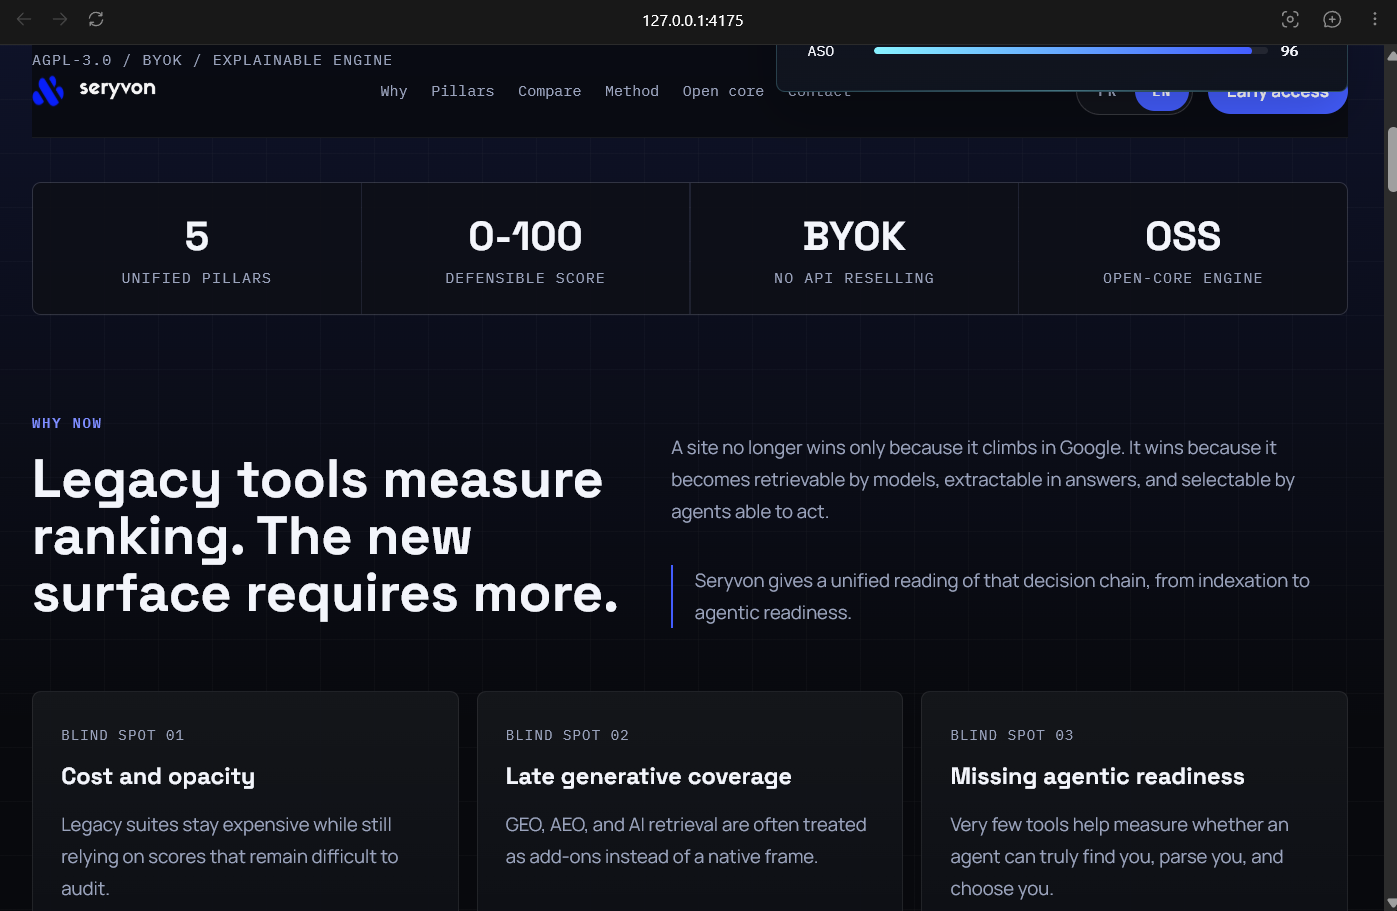
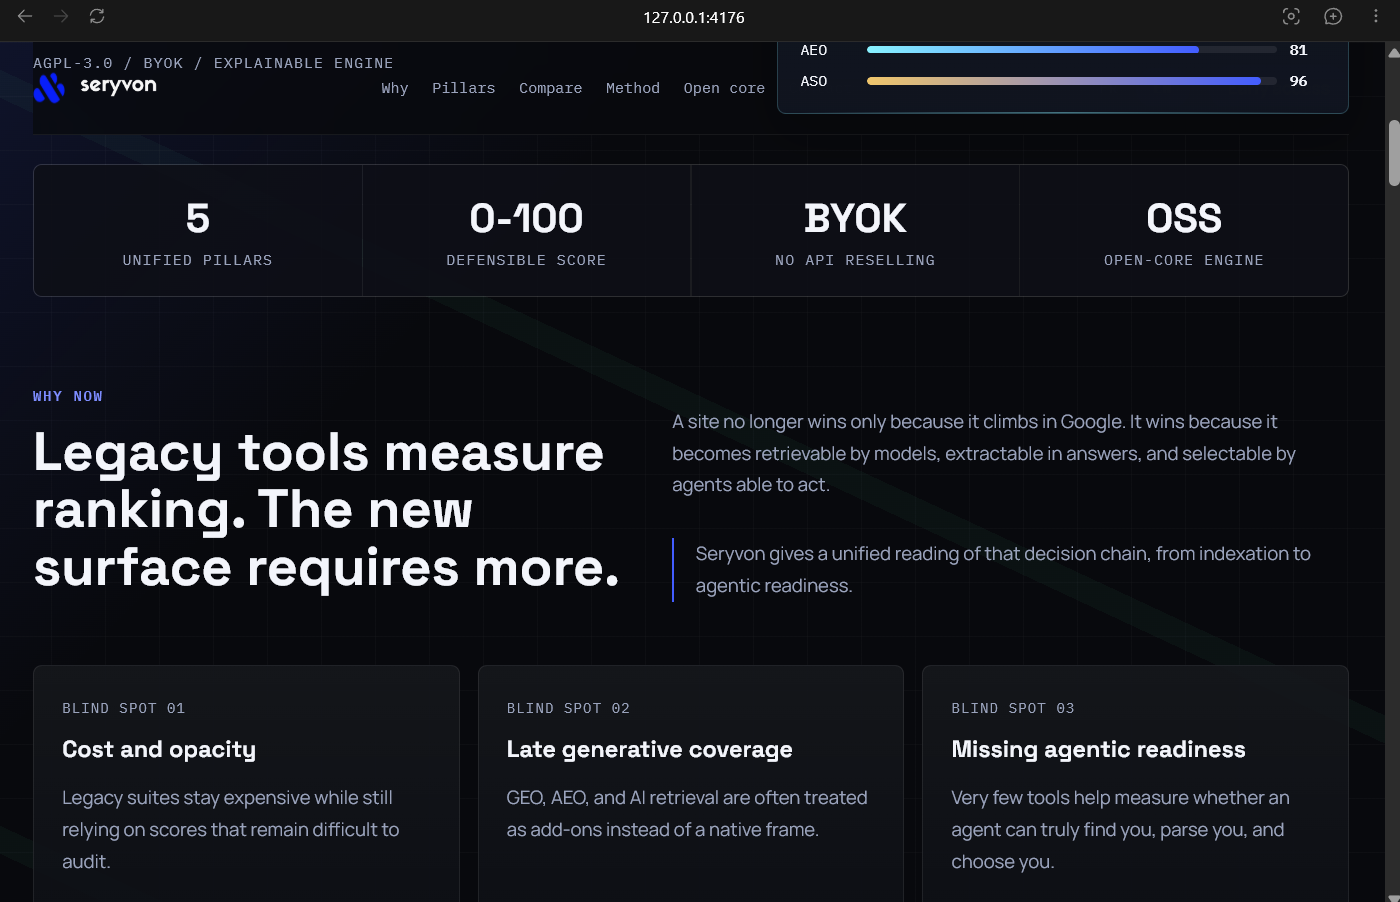
docs: finalize orchestrated Seryvon comparison

diff --git a/README.md b/README.md
@@ -170,13 +170,13 @@ After:
 
 ![Seryvon after orchestrator compare](docs/seryvon-after-orchestrator-compare.png)
 
-The new version feels more orchestrated because it reads like a guided sequence, not a stack of disconnected sections.
+The result feels more orchestrated because the page now has a clearer narrative sequence instead of a set of polished but mostly parallel sections.
 
-The hero now has a much clearer hierarchy: product first (`Seryvon`), then the core promise, then the progression `Get found / Get cited / Get chosen.` The CTAs are easier to parse and more intentionally prioritized, so the page gives a stronger first direction instead of asking the user to figure it out.
+The hero now explicitly frames the product journey as Get found, Get cited, and Get chosen, which makes the five-pillar story easier to understand immediately. The audit panel also has clearer product signals with Crawl, Score, and Proof, so the visual proof feels connected to the product workflow rather than decorative.
 
-The pacing is also more controlled: less decorative noise, more breathing room, sharper cards, a sticky navigation, and sections that reveal at the right moment. Motion supports the reading flow instead of competing with it, through the hero entrance, the proof panel, the score bars, and the scroll reveals.
+Motion is more intentional: section reveals are staggered, bar fills progress in sequence, and hover states are restrained. The animation supports reading order instead of competing with the content.
 
-Product proof is clearer too. The audit snapshot, metrics, comparison table, build-quality section, roadmap, and adoption path now form a more logical narrative. The page makes it easier to understand why Seryvon exists, what it measures, how it is different, and what to do next.
+The page rhythm is tighter too. The first viewport now hints at the proof metrics on desktop and mobile, CTAs are more legible, and the Pro / Team offer is visually prioritized without making the pricing section feel noisy. Overall, the page reads less like individual nice sections and more like one guided product argument.
 ## Public Roadmap
 
 Short version:
@@ -220,6 +220,7 @@ For a local checkout, the usual flow is:
 2. install `ui-motion-workflow` from that marketplace
 
 See [docs/codex-usage.md](docs/codex-usage.md) for the Codex-oriented workflow details.
+
 
 
 